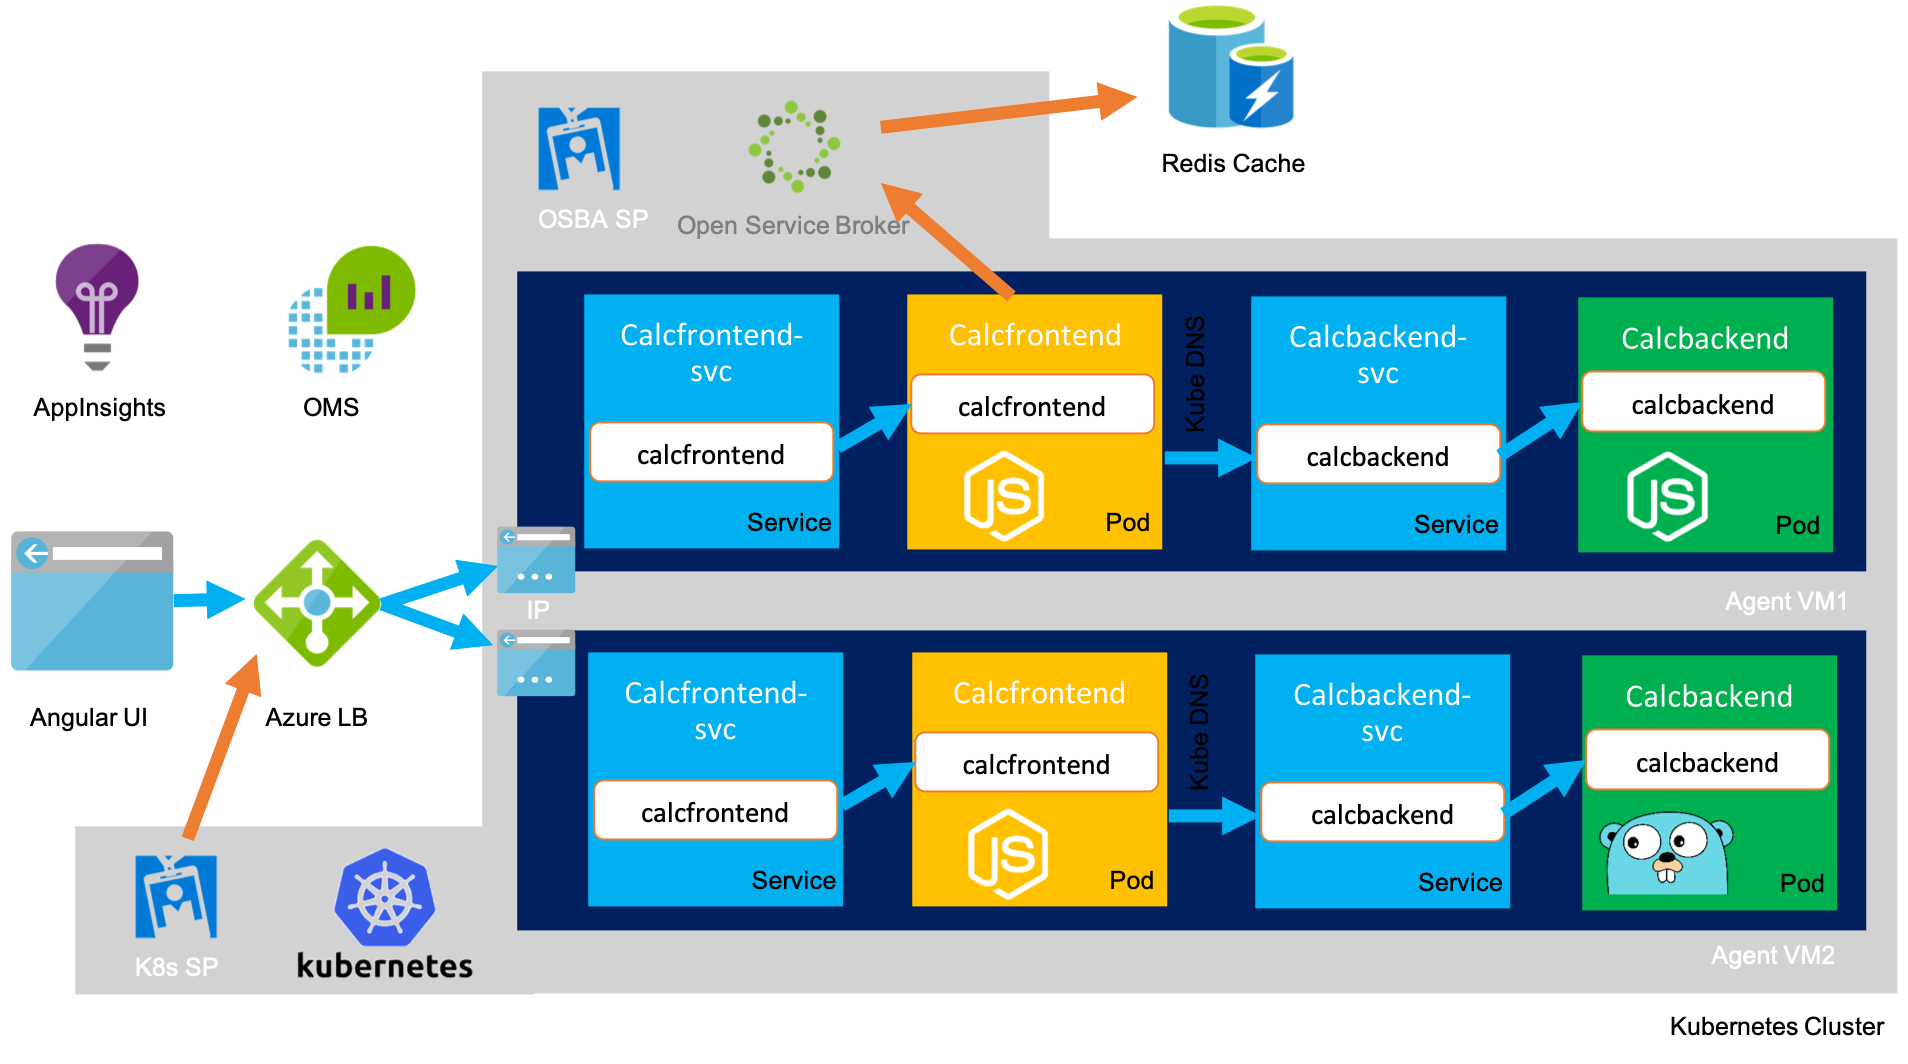
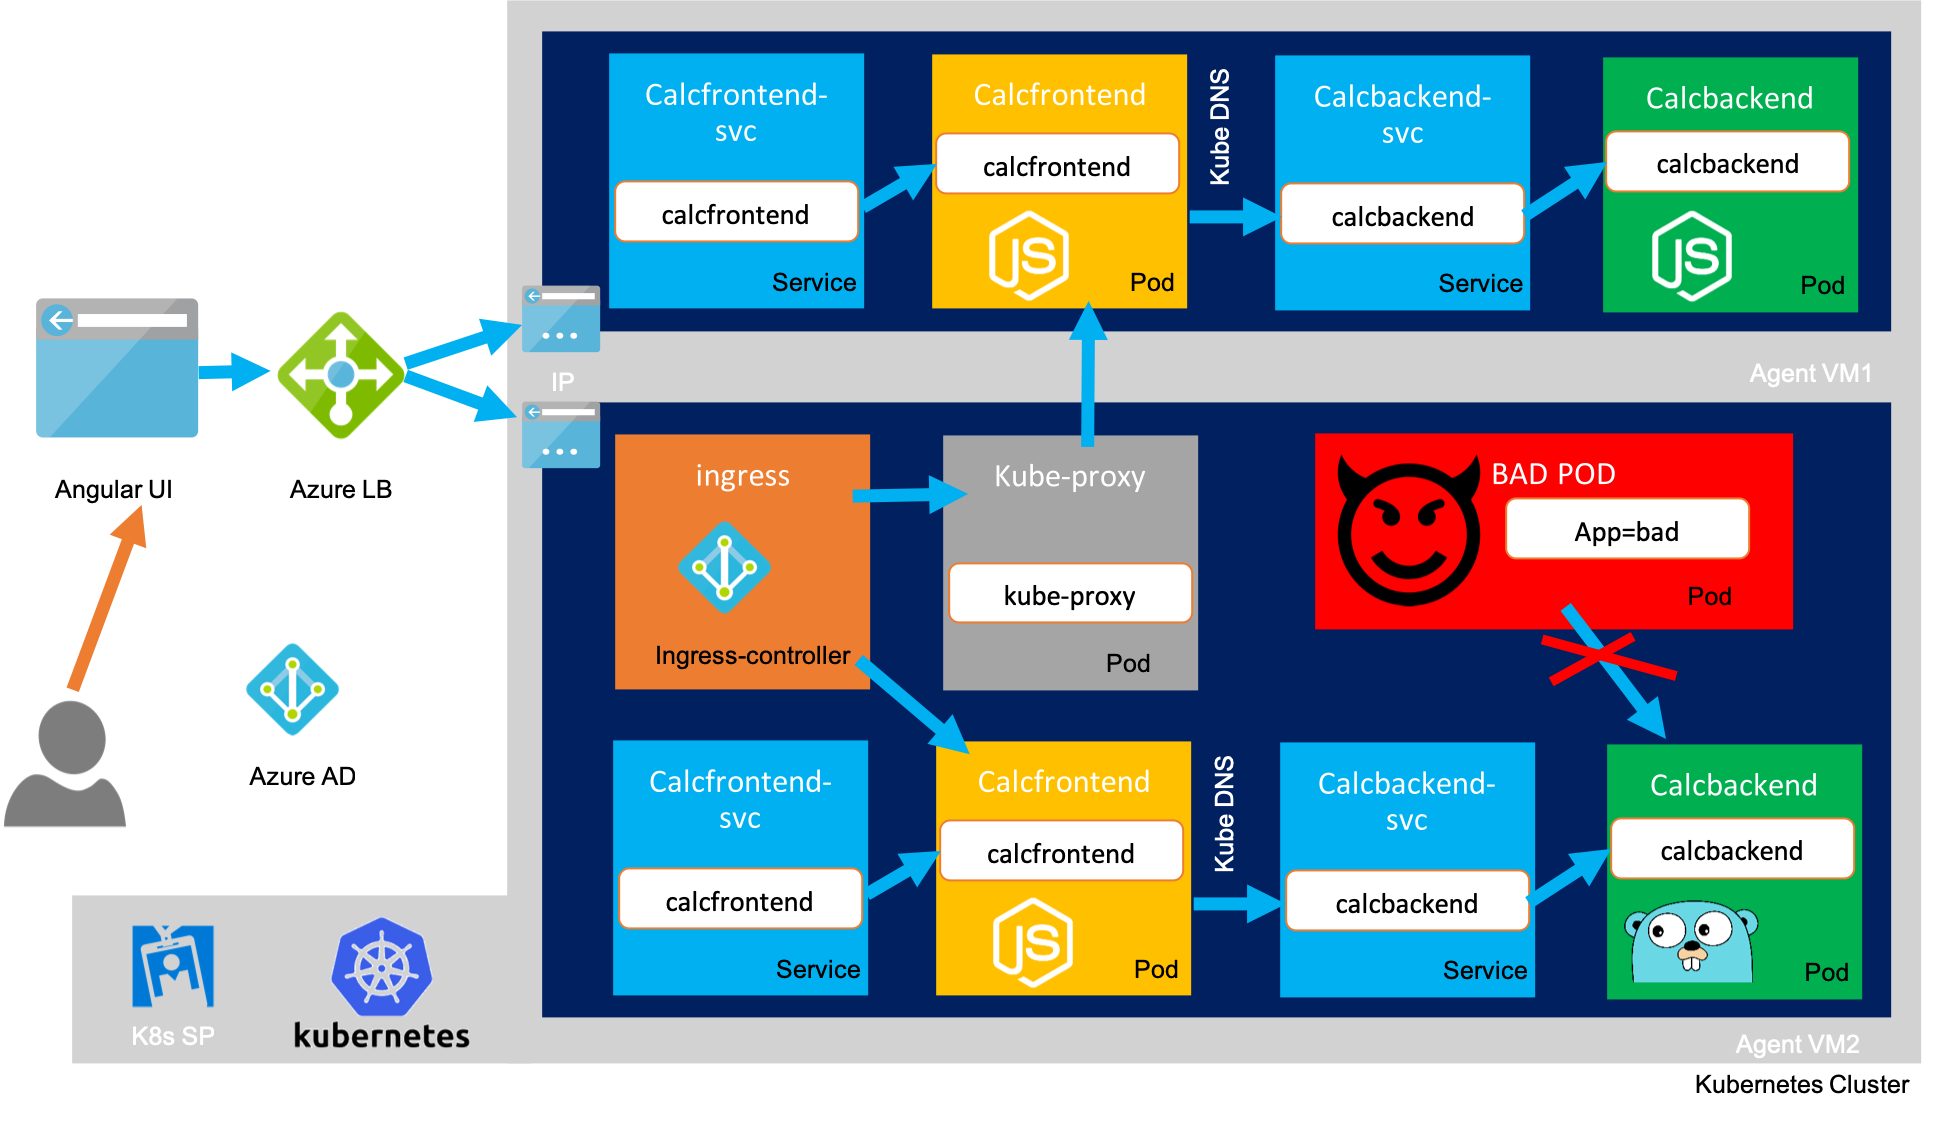
added flux

diff --git a/challenges.5.md b/challenges.5.md
@@ -1,34 +1,35 @@
-# Kubernetes integration challenge
+# Security- Challenge
 > Need help? Check hints [here :blue_book:](hints/osba.md)! (hints/helm.md)!
 
-> In this challenge you will extend your application plattform capabilities with the vast set of services of native Azure PaaS Services - by using SQL, Redis Cache, MySQL, Service Bus, Cosmos DB from your apps. You will make sure that the management of these services will be done by the service catalog in Kubernetes and minimize the impact of your operational teams to use Azure PaaS.
+## Why
+Especially when running multiple applications in your cluster you want to controll how traffic is coming into your environment and how different worloads are allowed to communicate within the cluster. In this challenge you will learn how to lock down your application for enterprise use.
 
 ![](/img/challenge5.png)
 
 ## Here's what you'll learn:
-> - How to persist data in a container
-> - How to set up the open service broker api for your Cluster
-> - Learn how to package application and their dependencies using HELM
-> - Successfully deploy the multicalculator and the Redis Cache dependency
+> - Deploying ingress with ssl termination
+> - Using network policies to lock down internal traffic
+> - Using authentication proxy to enforce auth at the ingress
+> - Move secrets to azure key vault
 
-## 1. Mount a volumne
-- Configure a storage class
-- Deploy a pod and mount a volume from a persistent volume
-- Have the application write to that volume
-- Use redis in a sidecar container to
-
-## 2. Deploy an ingress controller
+## 1. Deploy an ingress controller
 - Learn about ingress controller (https://kubernetes.io/docs/concepts/services-networking/ingress/)
 - Deploy an ingress controller via Helm (https://github.com/kubernetes/charts/tree/master/stable/nginx-ingress)
 - Configure the routes for ingress to your application (https://docs.microsoft.com/en-us/azure/aks/ingress)
 
-## 3. Install the open service broker api
-- Configure your azure service principal for the open service broker
-- Deploy the azure open service broker into your AKS service catalog
-- Verify that it works by deploying wordpress 
+## 2. Deploy network policies
+- Learn about how to control traffic flows between containers https://docs.microsoft.com/de-de/azure/aks/use-network-policies
 
-## 4. Integrate using the open service broker
-![](/img/appmapredis.jpg)
-- Expand the requirements for your helm chart
-- Define naming and parametery for your helm chart to make use of the Azure Redis Cache
-- Deploy your app!
+Deploy the network policy daemonset
+```
+kubectl apply -f  https://github.com/Azure/acs-engine/blob/master/parts/k8s/addons/kubernetesmasteraddons-azure-npm-daemonset.yaml
+```
+
+## 3. Configure a network security group
+- Learn about having Kubernetes manage your azure network security group. 
+- Can you whitelist so that only specific ip ranges are allowed to your ingress controller?
+https://kubernetes.io/docs/tasks/access-application-cluster/configure-cloud-provider-firewall/
+
+## 4. Move secrets to keyvault
+- Learn about moving secrets from your cluster to an azure keyvault
+- Check out what you need to do: https://github.com/Azure/kubernetes-keyvault-flexvol

diff --git a/README.md b/README.md
@@ -5,16 +5,17 @@ Welcome to project Phoenix - a hands on workshop to practice container technolog
 ## What do we want to achieve?
 
 After the workshop you should have hands on experience with:
-1. Defining Application and system architectures for containers.
-2. Defining, configuring up and maintaining runtime environments for containers in Azure.
-3. Configuration options for CI/CD pipeline for containers in Azure.
-4. Unterstanding of Kubernetes objects (Pods, Services, Deployments, Secrets) and their usage for multi container applications.
-5. Logging, scaling and monitoring of container runtimes.
+1. Defining application and system architectures for containers.
+2. Configuration options for automatic upgrades for containerized workloads.
+3. Unterstanding of Kubernetes objects (Pods, Services, Deployments, Secrets) and their usage for multi container applications.
+4. Gaining operational insights by logging and monitoring of your containerized worloads.
+5. Securing ingress and network communication paths to and inside your cluster
+6. Learn about implementing GitOps using Flux and GitHub actions.
 
 # ACTIVATION OF AZURE PASS: https://www.microsoftazurepass.com/
 
-## How should the sample application look like?
-![](/img/osba_multicalculator.png)
+## How should the end result look like?
+![](/img/challenge6.png)
 
 ## Your path to there
 1. [Set up](challenges.0.md) your system.
@@ -22,5 +23,5 @@ After the workshop you should have hands on experience with:
 3. Do the [Kubernetes 101 Challenges](challenges.2.md) and learn about Kubernetes basic concepts (pods and services),deploy a container to your cluster and make it available in the internet.
 4. Face [the Kubernetes Multicontainer Challenge](challenges.3.md) and deploy a complex multi container application update with zero downtime using an end to end automated azure devops pipeline.
 5. Professionalize your operations using insights in the [Operations and Application Insights Challenge](challenges.4.md). Upgrade your application with another backend implementation written in Go, meassure the performance, reason about the performance metrics using Application Insights and if the new version is not good enough perform a rollback - without downtime.
-6. Package your application and make use of the open service broker api to integrate your app into native Azure PaaS services by mastering the [Integration Challenge](challenges.5.md).
-7. Secure your application for enterprise use case by using secure ingress, network policies, auth proxy and keyvault. [Security Challenge](challenges.6.md).
+6. Secure your application for enterprise use case by using secure ingress, network policies, auth proxy and keyvault. [Security Challenge](challenges.5.md).
+7. Implement GitOps using flux, helm and github actions [GitOps Challenge](challenges.6.md).

diff --git a/challenges.6.md b/challenges.6.md
@@ -1,28 +1,23 @@
-# Kubernetes security challenge
-> Need help? Check hints [here :blue_book:](hints/osba.md)! (hints/helm.md)!
+# GitOps challenge
+> Need help? Check hints [here :blue_book:](hints/flux.md)! 
 
-> In this challenge you will learn how to lock down your application for enterprise use.
+## Why
+If you using a CI/CD pipeline to push changes in your environments while at the same time other people or tools perform changes to your applications this increases the chance of config drift. Another possible approach is to use your source control as your central system of records and enforce this by building a process around this. The basic idea is that you are using a pod inside your cluster to continously watch for your desired state in your git repo and reconsile your cluster state with your git repo state if they drift apart.
 
 ![](/img/challenge6.png)
 
 ## Here's what you'll learn:
-> - Deploying ingress with ssl termination
-> - Using network policies to lock down internal traffic
-> - Using authentication proxy to enforce auth at the ingress
-> - Move secrets to azure key vault
+> - Leveraging GitOps to ensure the desired state of your environment
+> - Using GitHub actions to build your helm chart and containers
+> - Using flux to implement a GitOps flow
 
-## 1. Deploy a secure ingresss
-https://docs.microsoft.com/en-us/azure/aks/ingress-tls
+## 1. Deploy flux
+- Deploy and configure flux
+- Create another git repo for your yaml files
 
-## 2. Deploy network policies
-
-Deploy the network policy daemonset
-```
-kubectl apply -f  https://github.com/Azure/acs-engine/blob/master/parts/k8s/addons/kubernetesmasteraddons-azure-npm-daemonset.yaml
-```
+## 2. Automatically publish and configure your yaml files
+- Create a new github action
+- Package your helm chart either to your ACR https://github.com/helm/chart-releaser-action
 
 ## 3. Configure auth proxy
-https://github.com/buzzfeed/sso
-
-## 4. Move secrets to keyvault
-https://github.com/Azure/kubernetes-keyvault-flexvol
+- Configure flux to watch for your config repo

diff --git a/challenges.3.md b/challenges.3.md
@@ -1,7 +1,8 @@
 # Kubernetes Multicontainer Challenge
 > Need help? Check hints [here :blue_book:](hints/k8sMulti.md)!
 
-> In this chapter you will create a multi-container appliation in Kubernetes. This is more close to real-life but makes administration a little more challenging. In reality you might want to be able to specify that mutliple containers are able to talk to each other in a defined way. You might want to make make sure certain parts of your application run in multiple instances to cover load. You might want to be able to monitor performance of your application. You might want to make sure that your system is self-healing so that faulty components are replaced automatically. For updates you might want to make sure to have zero downtime of your application. We are going to configure all of this in this section.
+## Why
+In this chapter you will create a multi-container appliation in Kubernetes. This is more close to real-life but makes administration a little more challenging. In reality you might want to be able to specify that mutliple containers are able to talk to each other in a defined way. You might want to make make sure certain parts of your application run in multiple instances to cover load. You might want to be able to monitor performance of your application. You might want to make sure that your system is self-healing so that faulty components are replaced automatically. For updates you might want to make sure to have zero downtime of your application. We are going to configure all of this in this section.
 
 ![](/img/challenge3.png)
 

diff --git a/challenges.4.md b/challenges.4.md
@@ -1,7 +1,8 @@
 # Kubernetes Operational InsightsChallenge
 > Need help? Check hints [here :blue_book:](hints/k8sMulti.md)!
 
-> In this chapter you will upgrade your application to use another implementation of the calculator backend written in Go. You have heard that Go is so much faster and better and want to try this out without interrupting your users. Therefore you have to do a blue green deployment with your old frontend and backend along with your new go-calc-backend. All containers are sending telemetry to Application Insights (assuming you have configured the configuration of the insights key correctly) - so you should be able to evaluate the performance of your new container relative to the old one. If it does not improve your service you should perform a rollback - all without impacting your users.
+## Why 
+In this chapter you will upgrade your application to use another implementation of the calculator backend written in Go. You have heard that Go is so much faster and better and want to try this out without interrupting your users. Therefore you have to do a blue green deployment with your old frontend and backend along with your new go-calc-backend. All containers are sending telemetry to Application Insights (assuming you have configured the configuration of the insights key correctly) - so you should be able to evaluate the performance of your new container relative to the old one. If it does not improve your service you should perform a rollback - all without impacting your users.
 
 ![](/img/challenge4.png)
 

diff --git a/challenges.2.md b/challenges.2.md
@@ -1,5 +1,6 @@
 # Kubernetes 101 Challenge
-> For scheduling applications consisting of multiple containers you typically use an orchestrator. Kubernetes is an orchestrator and in this chapter you will set up a Kubernetes cluster in Azure Kubernetes Service (AKS) and an Azure Container Registry (ACR) to store your images.
+## Why
+For scheduling applications consisting of multiple containers you typically use an orchestrator. Kubernetes is an orchestrator and in this chapter you will set up a Kubernetes cluster in Azure Kubernetes Service (AKS) and an Azure Container Registry (ACR) to store your images.
 
 ![](/img/challenge2.png)
 

diff --git a/hints/flux.md b/hints/flux.md
@@ -1,0 +1,11 @@
+# Flux
+
+Flux is an operator running in your cluster that will watch outside repos and configuration files for changes. If a change is detected it will pull and re-apply the desired configuration. The difference to a classic CI/CD pipleline is that you declaratively describe the entire desired state of your system in git.
+Read about GitOps and flux: https://www.weave.works/technologies/gitops/
+
+## How to install flux
+https://docs.fluxcd.io/en/latest/tutorials/get-started-helm.html
+
+## Design considerations for your config and code repo
+https://docs.fluxcd.io/en/1.17.1/faq.html#technical-questions
+

diff --git a/hints/helm.md b/hints/helm.md
@@ -1,6 +1,6 @@
 # Using Helm
 
-## Installing helm and tiller
+## Installing helm
 https://github.com/kubernetes/helm
 https://docs.microsoft.com/en-us/azure/aks/kubernetes-helm
 
@@ -66,7 +66,7 @@ kubectl create ns $APP_NS
 helm upgrade $APP_IN ./multicalculatorv3 --namespace $APP_NS --install --dry-run --debug
 ```
 
-You should see the dry run yaml output that would have been sent to tiller
+You should see the dry run yaml output that would have been sent to Kubernetes
 
 1. Now install the helm chart for real
 ```

diff --git a/challenges.1.md b/challenges.1.md
@@ -14,7 +14,7 @@ In this chapter you will get a basic experience in working with containers. For 
     - Get a sense for container networking and ports
     - How to create new versions of images
     - Learn about tagging
-    - How to use azure devops automation to set up an automated workflow
+    - How to use azure devops or github actions automation to set up an automated workflow
 - Deployment
     - How to provide a container image in a registry 
     - How to set up a container registry
